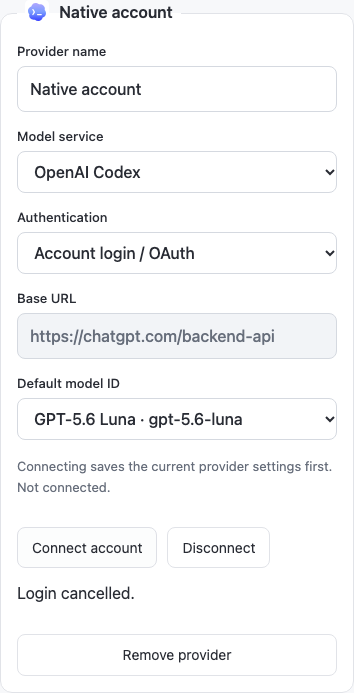
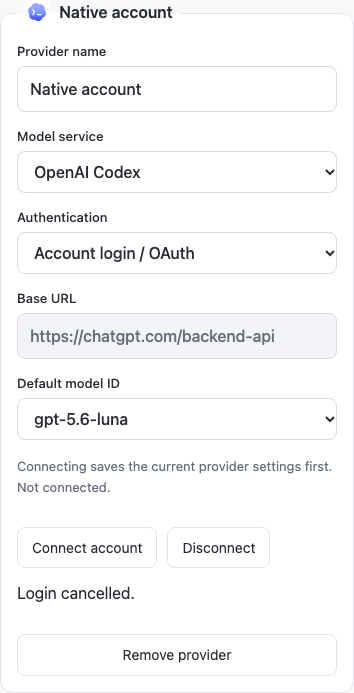
fix: display concise model IDs in selectors

Changed region(s): [[0.0932, 0.5758, 0.3729, 0.6364], [0.404, 0.5758, 0.6836, 0.6364]]

diff --git a/rewrite/src/routes/+page.svelte b/rewrite/src/routes/+page.svelte
@@ -355,12 +355,12 @@
     </header>
     {#if error}<p class="error" role="alert">{error}</p>{/if}
     <datalist id="new-model-options"
-      >{#each choices(providerId) as m}<option value={m.id}>{m.name}</option
+      >{#each choices(providerId) as m}<option value={m.id}>{m.id}</option
         >{/each}</datalist
     >
     <datalist id="conversation-model-options"
       >{#each choices(conversationProvider) as m}<option value={m.id}
-          >{m.name}</option
+          >{m.id}</option
         >{/each}</datalist
     >
     {#if creating}<section

diff --git a/rewrite/src/routes/settings/+page.svelte b/rewrite/src/routes/settings/+page.svelte
@@ -540,7 +540,7 @@
                             settings = { ...settings };
                           }}
                           >{#each settings.catalog.find((v: any) => v.id === p.service)?.models ?? [] as model}<option
-                              value={model.id}>{model.name} · {model.id}</option
+                              value={model.id}>{model.id}</option
                             >{/each}</select
                         ></label
                       >
